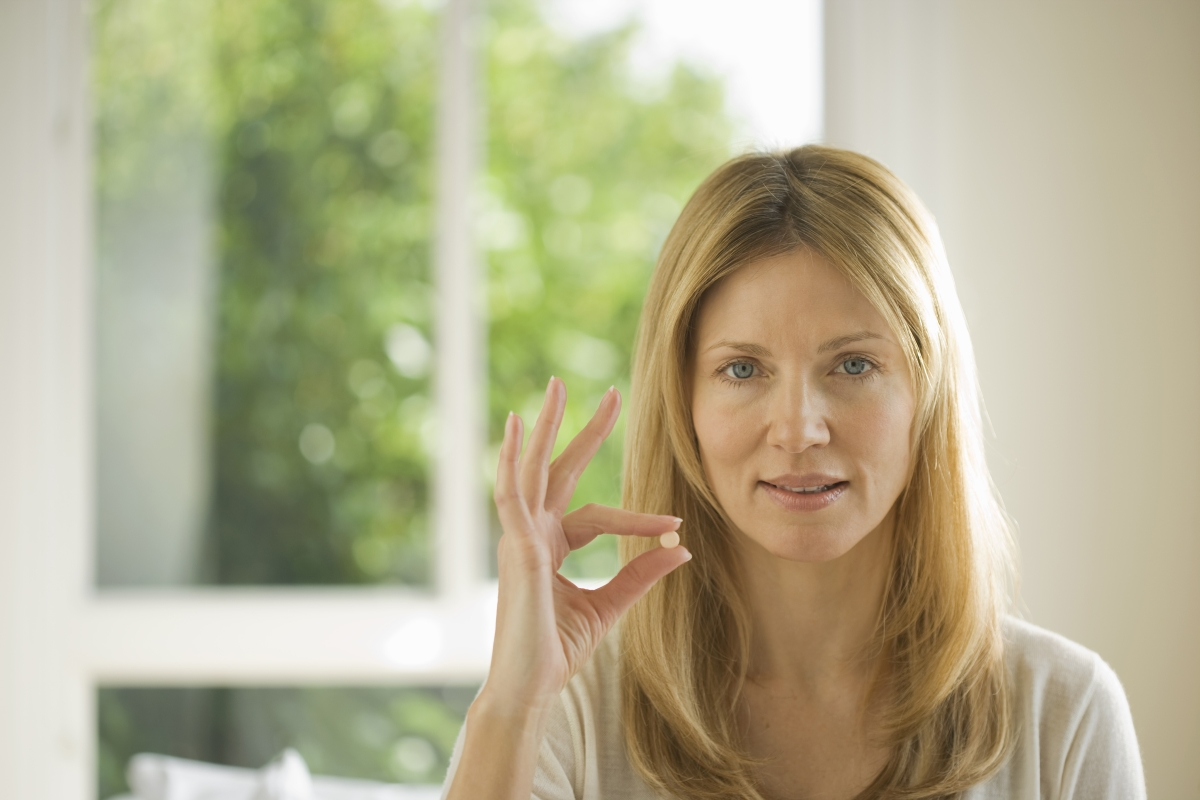
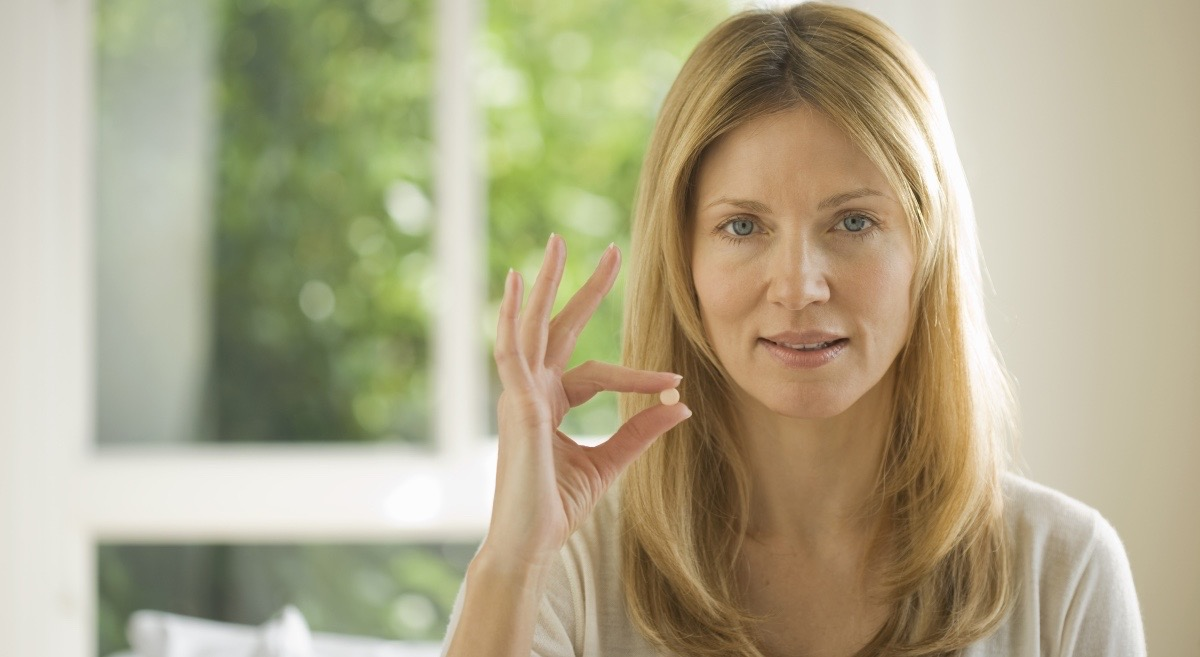
cropped home page images, added links to investor page, updated footer

diff --git a/css/style.css b/css/style.css
@@ -69,8 +69,6 @@ h4 {
     min-width: 300px;
     margin: 0 auto 24px auto;
     color: #5B9BD5;
-    /*letter-spacing: 1px;*/
-    text-transform: uppercase;
 }
 
 h5 {
@@ -270,14 +268,29 @@ header {
 .cycle-slideshow, .cycle-slideshow * { -webkit-box-sizing: border-box; -moz-box-sizing: border-box; box-sizing: border-box; }
 
 .cycle-slideshow { /*display: none;*/ overflow-x:hidden;
-    /*overflow-y:hidden;*/ height: 600px; width: 1100px; min-width: 320px; max-width: 1275px; margin: 50px auto 0 auto; padding: 0; position: relative;
+    /*overflow-y:hidden;*/ height: 596px; width: 100%; min-width: 320px; max-width: 1275px; margin: 50px auto 0 auto; padding: 0; position: relative;
     background: url(http://malsup.github.com/images/spinner.gif) 50% 50% no-repeat;
 
  }
 .cycle-slideshow img { 
     position: absolute; overflow-x:hidden;
     /*overflow-y:hidden;*/ top: 0; margin: 0 auto;
-    width: 1100px; min-width: 320px; max-width: 1275px; height: 600px; padding: 0; display: block;
+    width: 100%; min-width: 320px; max-width: 1275px; height: 596px; padding: 0; display: block;
+}
+
+.cycle-slideshow .gallery-1 {
+    height: 596px;
+    width: 100%;
+}
+
+.cycle-slideshow .gallery-3 {
+    height: 596px;
+    width: 100%;
+}
+
+.cycle-slideshow .gallery-2 {
+    height: 596px;
+    width: 100%;
 }
 
 .cycle-slideshow img:first-child {
@@ -412,11 +425,17 @@ header {
     font-weight: 300;
 }
 
+#investors a {
+    text-decoration: none;
+    font-weight: 500;
+    color: black;
+}
+
 /* FOOTER for ALL pages */
 .footer {
     margin-top: 50px;
     border-top: 1px solid #282828;
-    height: 220px;
+    height: 160px;
     width: 100%;
     background-color: #5B9BD5; 
     text-align: center;
@@ -430,32 +449,7 @@ header {
     color: white;
 }
 
-.footer h5 {
-    padding-top: 20px;
-    color: white;
-}
-
-.footer .icons > li {
-    border-radius: 1.25rem;
-    width: 2.5rem;
-    height: 2.5rem;
-    display: inline-block;
-    margin: 1.25rem 5px;
-    padding: 0.33rem 0;
-    text-align: center;
-    font-size: 28px;
-}
-.footer .icons > li:hover {
-    cursor: pointer;
-}
-.footer .twitter {
-    color: white;
-}
-
-.footer .facebook {
-    color: #0000FF;
-}
-.footer .linkedin {
+.footer p {
     color: white;
 }
 
@@ -480,17 +474,58 @@ header {
 }
 
 @media screen and (max-width: 970px) {
+    .cycle-slideshow {
+        height: 420px;
+        width: 100%;
+    }
+    .cycle-slideshow img {
+        height: 420px;
+        width: 100%;
+    }
+
+    .cycle-slideshow .gallery-1 {
+    height: 420px;
+    width: 100%;
+}
+
+.cycle-slideshow .gallery-3 {
+    height: 420px;
+    width: 100%;
+}
+
+.cycle-slideshow .gallery-2 {
+    height: 420px;
+    width: 100%;
+}
+}
+
+@media screen and (max-width: 720px) {
     .logo {
         margin-top: 10px;
     }
     .cycle-slideshow {
-        height: auto;
-        width: 820px;
+        height: 420px;
+        width: 100%;
     }
     .cycle-slideshow img {
-        height: auto;
-        width: 820px;
+        height: 420px;
+        width: 100%;
     }
+
+    .cycle-slideshow .gallery-1 {
+    height: 420px;
+    width: 100%;
+}
+
+.cycle-slideshow .gallery-3 {
+    height: 420px;
+    width: 100%;
+}
+
+.cycle-slideshow .gallery-2 {
+    height: 420px;
+    width: 100%;
+}
     #about {
         padding: 0 20px;
     }

diff --git a/index.html b/index.html
@@ -62,9 +62,9 @@
 	<div class="cycle-overlay"></div>
 	<div class="cycle-prev"></div>
     <div class="cycle-next"></div>
-	<img src="images/gallery-1.jpg" alt="" data-cycle-title="Innovative Medical Solution<br> for Treatment of Infertility" data-cycle-desc="">
-	<img src="images/gallery-3.jpg" alt="" data-cycle-title="Innovative Medical Solution<br> for Treatment of Infertility" data-cycle-desc=" ">
-	<img src="images/gallery-4.jpg" alt="" data-cycle-title="Innovative Medical Solution<br> for Treatment of Infertility" data-cycle-desc=" ">
+	<img class="gallery-1" src="images/gallery-1.jpg" alt="" data-cycle-title="Innovative Medical Solution<br> for Treatment of Infertility" data-cycle-desc="">
+	<img class="gallery-3" src="images/gallery-3.jpg" alt="" data-cycle-title="Innovative Medical Solution<br> for Treatment of Infertility" data-cycle-desc=" ">
+	<img class="gallery-2" src="images/gallery-2.jpg" alt="" data-cycle-title="Innovative Medical Solution<br> for Treatment of Infertility" data-cycle-desc=" ">
 </div>	
 
 <!-- Photo gallery, with 4 images !-->
@@ -78,18 +78,8 @@
 	<span class="copyright">
         <h4>Tocophe Rx</h4>
     </span>
-    <h5>Join us on</h5>
-    	<ul class="icons">
-           	<li class="twitter">
-                <i class="fa fa-twitter"></i>
-            </li>
-            <li class="facebook">
-                <i class="fa fa-facebook"></i>
-            </li>
-            <li class="instagram">
-                <i class="fa fa-linkedin"></i>
-            </li>
-        </ul>
+    <p>15 New England Executive Park</p>
+    <p>Burlington, MA, 08103, USA</p>
 </footer>
 <div class="bottom">
 <p>&copy; 2015 Tocophe Rx</p>

diff --git a/investors.html b/investors.html
@@ -59,8 +59,8 @@
 <div id="investors">
 	<h3>Our Investors</h3>
 		<ul>
-			<li>Company Seed funded by MS Ventures</li>
-			<li>MS Ventures is the corporate ventures arms of Merck Healthcare</li>
+			<li>Company Seed funded by <a class="ms-ventures" href="http://www.ms-ventures.com/en/index.html" target="_blank">MS Ventures</a></li>
+			<li>MS Ventures is the corporate ventures arms of <a href="http://www.merck.com/" target="_blank">Merck Healthcare</a></li>
 			<li>Tocophe Rx is currenty raising capital to fund clinical development and get the first oral FSH treatment available to patients</li>
 		</ul>
 </div>
@@ -69,18 +69,8 @@
 	<span class="copyright">
         <h4>Tocophe Rx</h4>
     </span>
-    <h5>Join us on</h5>
-    	<ul class="icons">
-           	<li class="twitter">
-                <i class="fa fa-twitter"></i>
-            </li>
-            <li class="facebook">
-                <i class="fa fa-facebook"></i>
-            </li>
-            <li class="instagram">
-                <i class="fa fa-linkedin"></i>
-            </li>
-        </ul>
+    <p>15 New England Executive Park</p>
+    <p>Burlington, MA, 08103, USA</p>
 </footer>
 <div class="bottom">
 <p>&copy; 2015 Tocophe Rx</p>

diff --git a/about-us.html b/about-us.html
@@ -118,18 +118,8 @@ achieved currently.</p>
 	<span class="copyright">
         <h4>Tocophe Rx</h4>
     </span>
-    <h5>Join us on</h5>
-    	<ul class="icons">
-           	<li class="twitter">
-                <i class="fa fa-twitter"></i>
-            </li>
-            <li class="facebook">
-                <i class="fa fa-facebook"></i>
-            </li>
-            <li class="instagram">
-                <i class="fa fa-linkedin"></i>
-            </li>
-        </ul>
+    <p>15 New England Executive Park</p>
+    <p>Burlington, MA, 08103, USA</p>
 </footer>
 <div class="bottom">
 <p>&copy; 2015 Tocophe Rx</p>

diff --git a/science.html b/science.html
@@ -79,18 +79,8 @@ testis.</p>
 	<span class="copyright">
         <h4>Tocophe Rx</h4>
     </span>
-    <h5>Join us on</h5>
-    	<ul class="icons">
-           	<li class="twitter">
-                <i class="fa fa-twitter"></i>
-            </li>
-            <li class="facebook">
-                <i class="fa fa-facebook"></i>
-            </li>
-            <li class="instagram">
-                <i class="fa fa-linkedin"></i>
-            </li>
-        </ul>
+    <p>15 New England Executive Park</p>
+    <p>Burlington, MA, 08103, USA</p>
 </footer>
 <div class="bottom">
 <p>&copy; 2015 Tocophe Rx</p>
